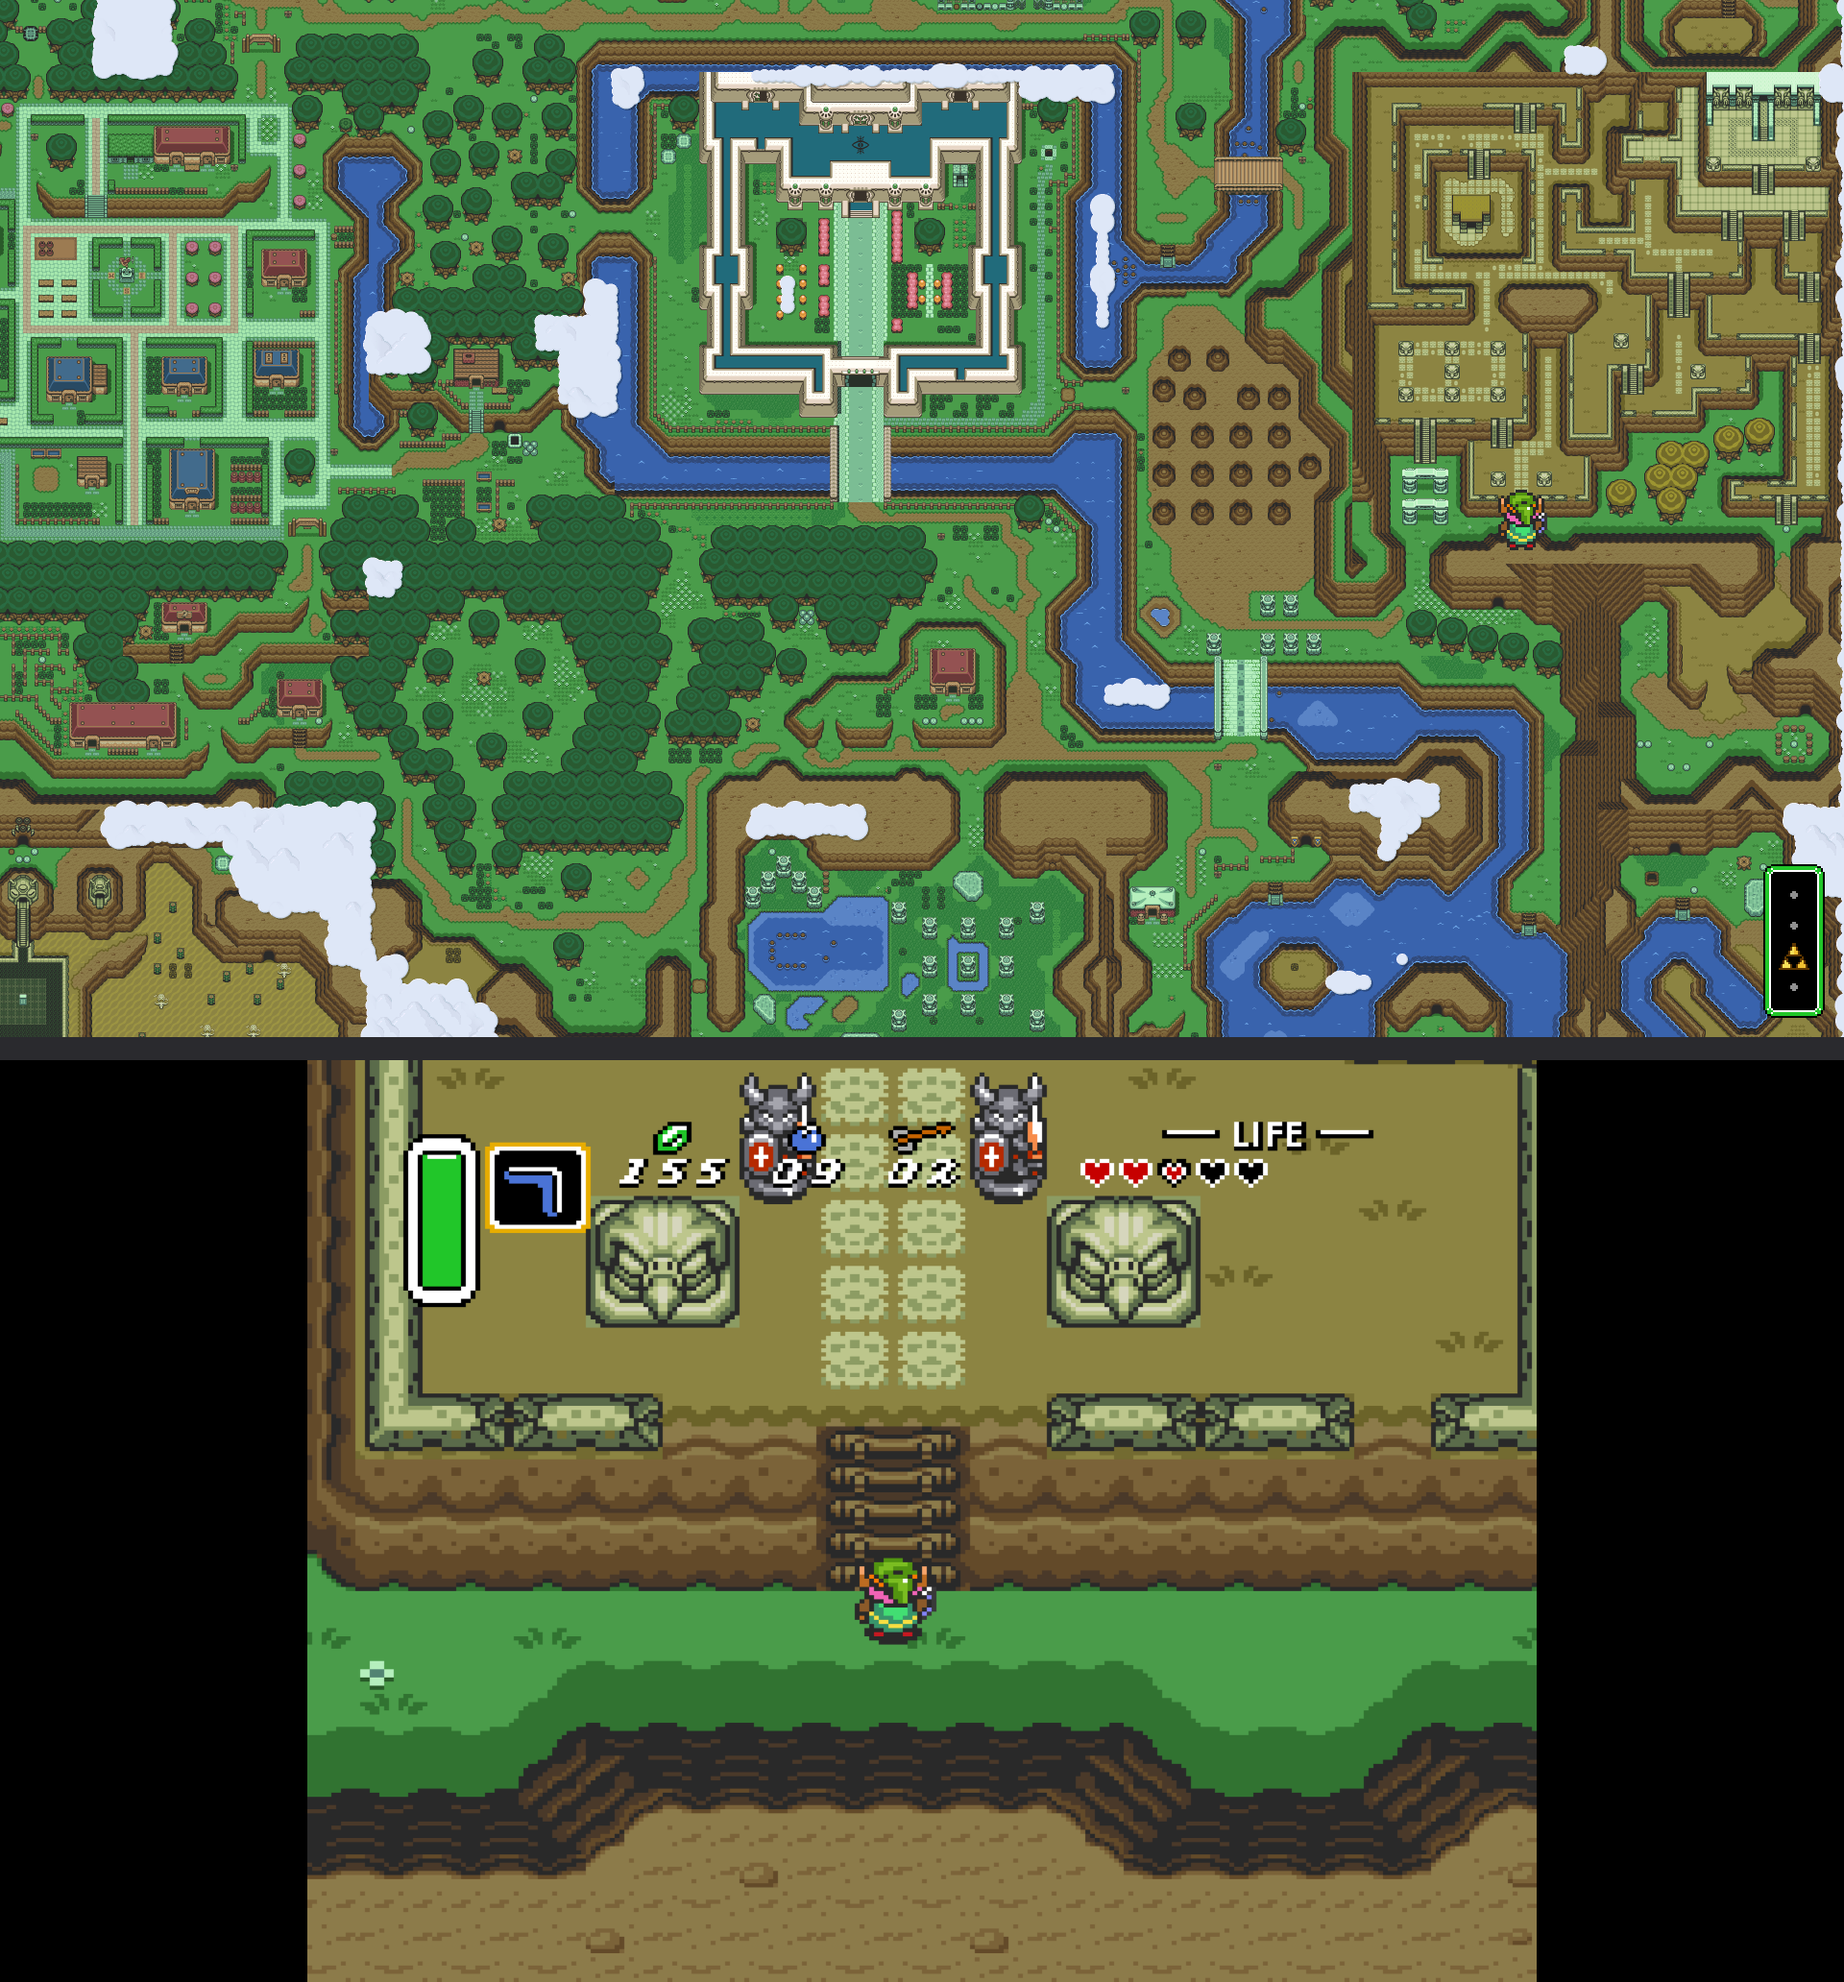
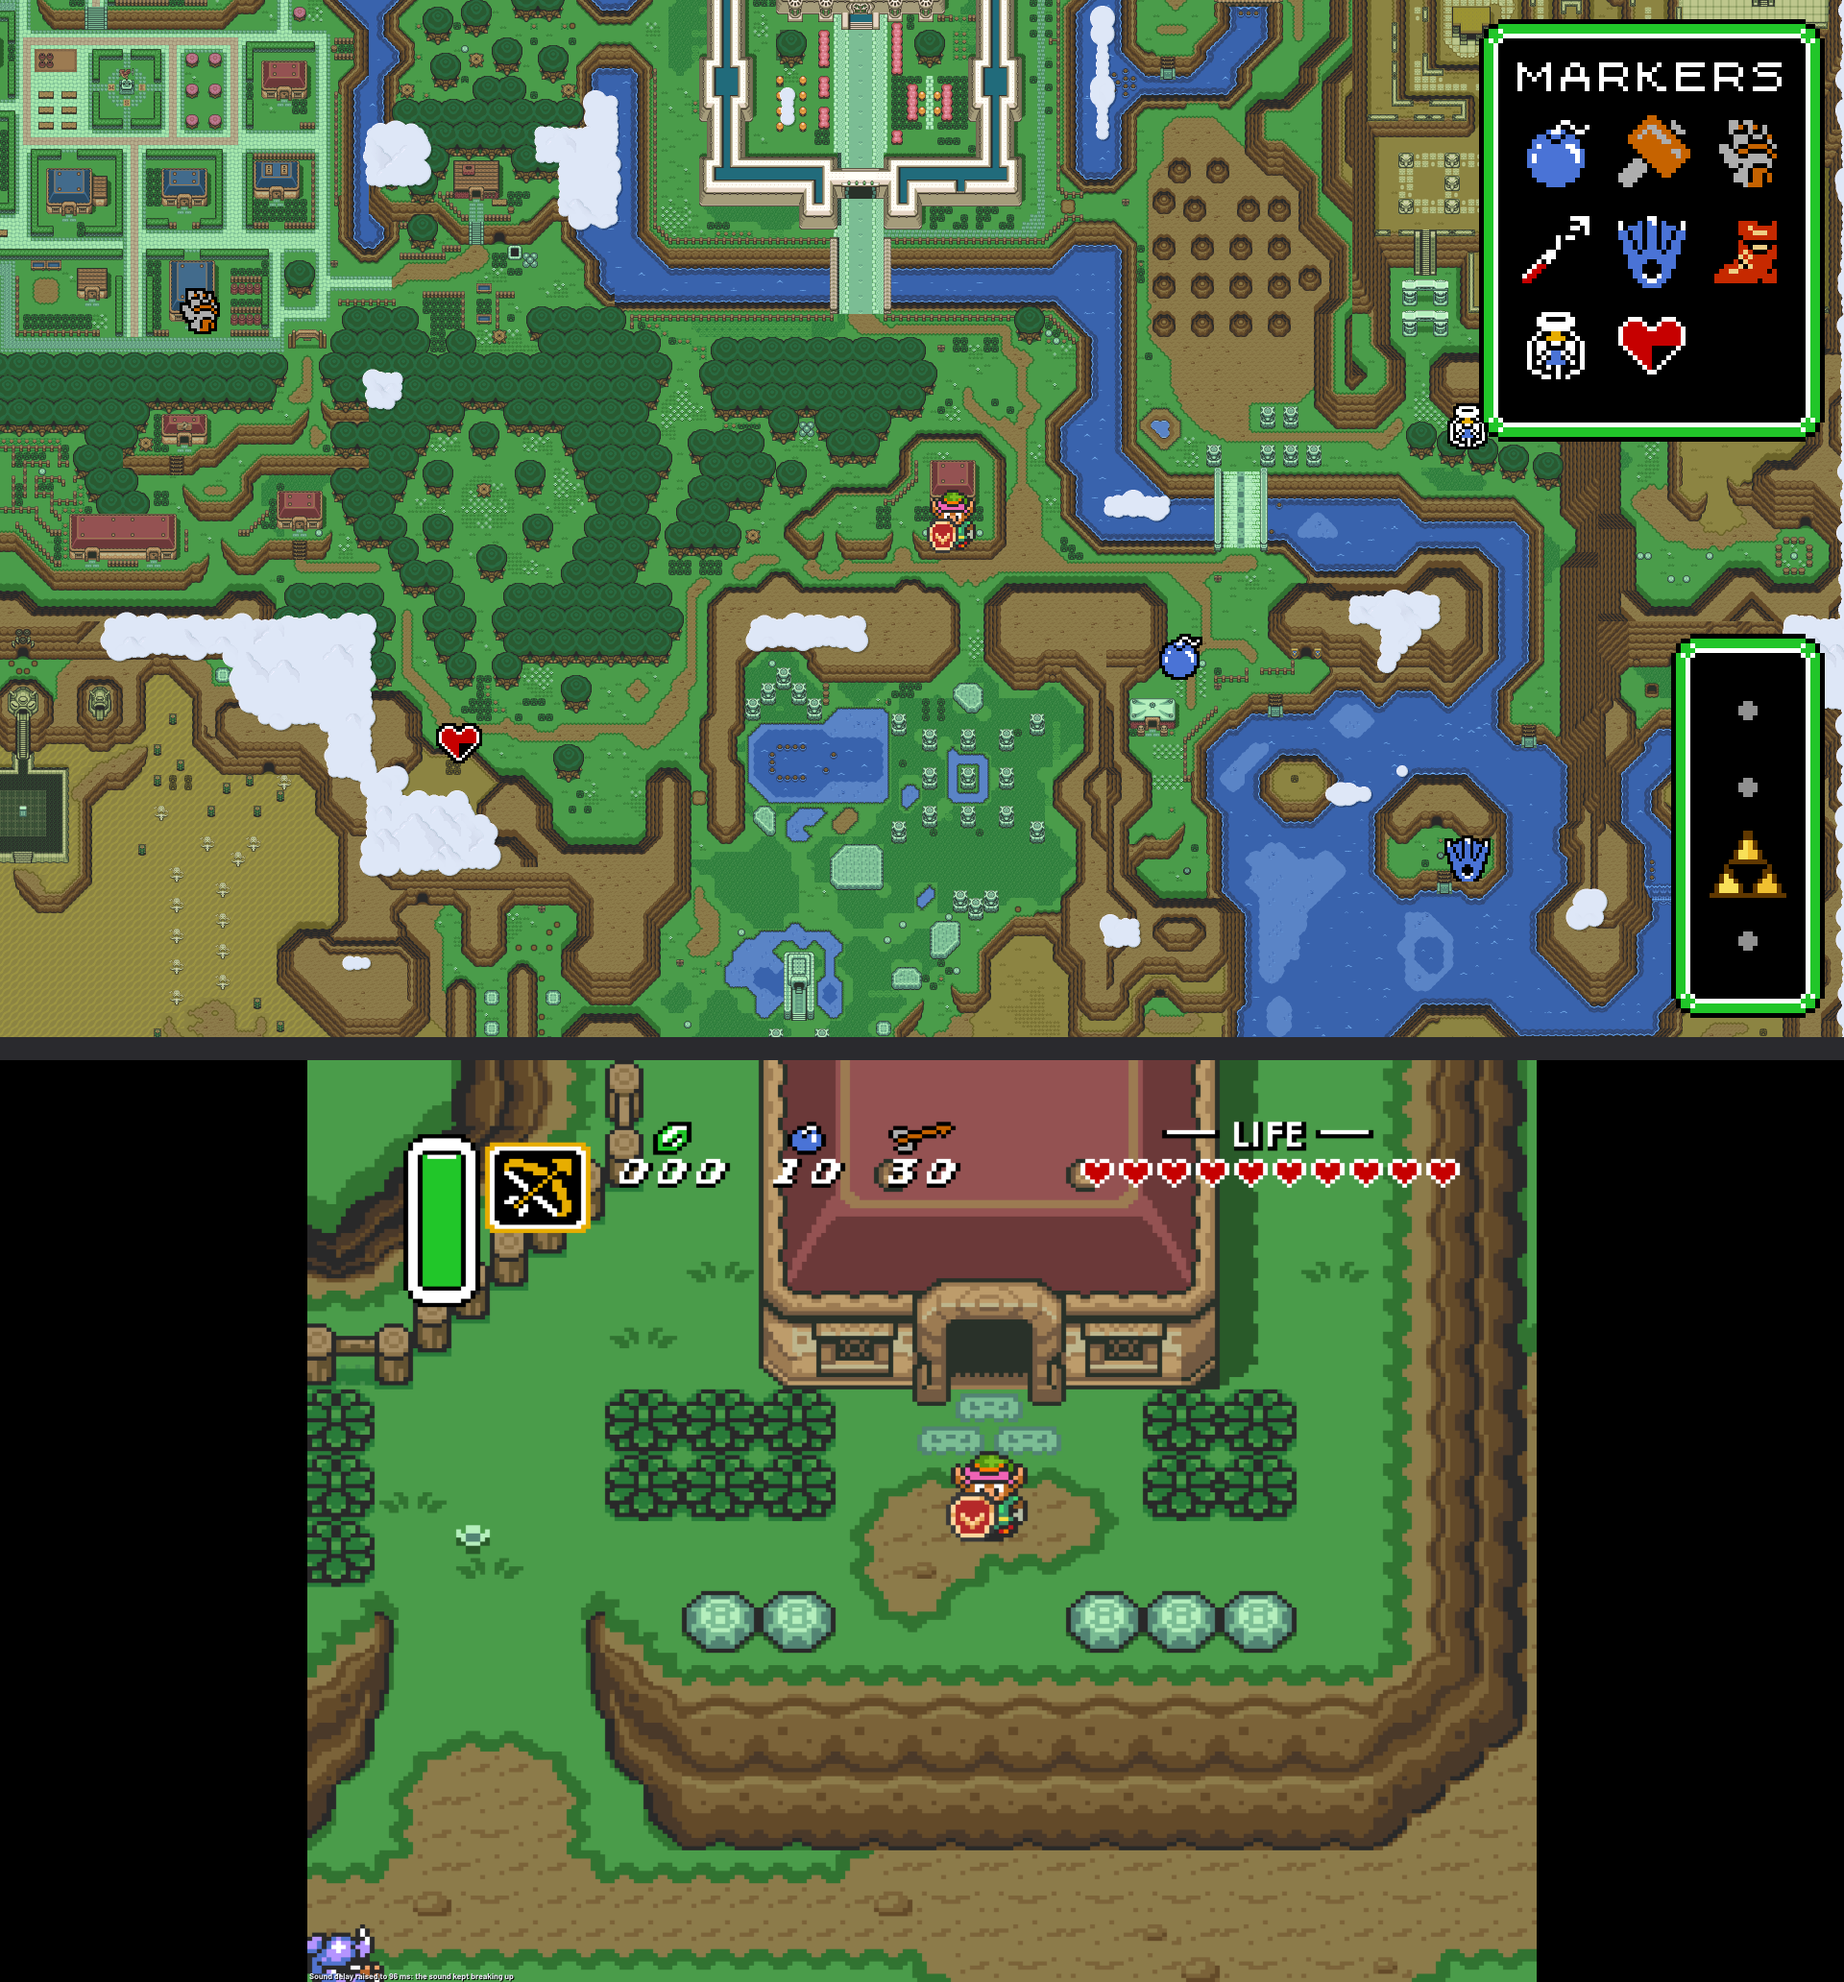
README: the owner's edits, current pictures
No repeated Duo / not-a-DS lines, no blockquote, no Super Metroid
mini-map line, no SNES DS move (there was never a public release),
A Link to the Past's items and markers as two points, and the owner's
wording for Symphony of the Night. New pictures, rendered by the desktop
app: the world map with markers on it (placed for the picture: no save
had any yet) and the MARKERS pane, and the current game list (tiles,
three games) and menu.

diff --git a/README.md b/README.md
@@ -17,9 +17,7 @@ RetroDS plays Super Nintendo and PlayStation games on dual-screen Android handhe
 
 You play with the buttons. The second screen is for looking: drag and zoom the map, tap an item to switch to it.
 
-It's built for and tested on the **Retroid Pocket Duo**. Other dual-screen Android handhelds should work but haven't been tried: the game goes on whichever screen fits a 4:3 picture best, and the other gets the second screen.
-
-> RetroDS doesn't play Nintendo DS games.
+Built for and tested on the **Retroid Pocket Duo**; other dual-screen Android handhelds should work but haven't been tried.
 
 ## Games with a second screen
 
@@ -34,20 +32,20 @@ Each supported game gets a second screen of its own, worked out from how that ga
 
 - The area map as the pause screen draws it, explored rooms and all, drawn by RetroDS from the cartridge and the game's memory. Drag it and fling it; it scrolls at the screen's refresh rate.
 - Tap SAMUS for the equipment page, and tap a beam, suit or item there to switch it on or off without pausing.
-- The mini-map on the game screen is covered while the full map is on the other screen.
 
 [Rules](docs/games/super-metroid.md) · USA / Japan release
 
 ### The Legend of Zelda: A Link to the Past
 
 <p align="center">
-  <img src="docs/media/alttp-world-map.webp" width="30%" alt="A Link to the Past: the Light World map built from what Link has seen, clouds over the rest">
+  <img src="docs/media/alttp-world-map.webp" width="30%" alt="A Link to the Past: the Light World map built from what Link has seen, clouds over the rest, the player's markers on it and the MARKERS pane">
   <img src="docs/media/alttp-items.webp" width="30%" alt="A Link to the Past: the items screen over the map, in the Ice Palace">
   <img src="docs/media/alttp-dungeon-map.webp" width="30%" alt="A Link to the Past: a dungeon's map on the top screen">
 </p>
 
 - The world map, built from the ground the game has actually shown you, with the world map's own clouds over what you haven't seen, Link walking on it, and the game's markers for where to go next. Pinch or tap to zoom.
-- The items screen slides up over the map (X): tap an item to give it to Y. Drop your own markers on the map to remember a secret for later.
+- The items screen slides up over the map (X): tap an item to give it to Y.
+- Drop your own markers on the map to remember a secret for later.
 - In dungeons, the dungeon's own map, floor by floor.
 
 [Rules](docs/games/a-link-to-the-past.md) · USA release
@@ -59,9 +57,13 @@ Each supported game gets a second screen of its own, worked out from how that ga
   <img src="docs/media/sotn-menu.webp" width="45%" alt="Symphony of the Night: the game's own menu on the top screen, widened; the logo on the bottom screen">
 </p>
 
-- The castle map exactly as the game's map screen draws it, read from the game's video memory, in its status-screen window (your window colour from the game's System menu), with the game's own cursor on Alucard's room, the rooms explored and the percentage. Tap or pinch to zoom in.
-- Press Start, or swipe across the second screen, and the game pauses and its own menu moves to the second screen, widened to fill it, while the game screen shows the logo. Play the menu with the pad as usual; Start or a swipe back carries on.
-- L2 and R2 go to the game (rewind and fast forward are the Super Nintendo's).
+- The castle map exactly as the game's map screen draws it, read from the game's video memory. Rooms explored and the percentage of the castle are displayed.
+- Windows get their colour from the game's System menu.
+- Tap or pinch to zoom in on the map.
+
+Press Start, or swipe across the second screen, and the game pauses and its own menu moves to the second screen. It is widened to fill modern devices' screens. The game screen shows the game's logo. Play the menu with the pad as usual; Start, triangle or a swipe back returns to the map.
+
+L2 and R2 as rewind and fast forward are disabled in Symphony of the Night.
 
 [Rules](docs/games/symphony-of-the-night.md) · USA release (SLUS-00067)
 
@@ -97,13 +99,11 @@ Any other Super Nintendo or PlayStation game plays on one screen, with its title
 3. Open RetroDS, pick a game. Tap the game screen or press HOME for RetroDS's menu: save and load states (with Undo), screens and scaling (4:3 or Pixel Perfect), shaders, controls, and the rest.
 
 <p align="center">
-  <img src="docs/media/game-list.webp" width="45%" alt="RetroDS's game list: the last game's picture on the top screen, the games on the bottom">
-  <img src="docs/media/pause-menu.webp" width="45%" alt="RetroDS's menu on the game screen: Resume, Save State, Load State, Undo, Close RetroDS">
+  <img src="docs/media/game-list.webp" width="45%" alt="RetroDS's game list: the last game's picture on the top screen, the games' logos on the bottom">
+  <img src="docs/media/pause-menu.webp" width="45%" alt="RetroDS's menu on the game screen: Resume, Restart Game, Save State, Load State, Undo, Close RetroDS; the game paused on the other screen">
 </p>
 
 Also there: rewind (L2) and fast forward (R2) on the Super Nintendo, patches applied as the game loads (IPS, UPS, BPS, xdelta), cheats, RetroAchievements (casual mode), and ten languages.
-
-**Coming from SNES DS?** RetroDS is a new app beside it. On its first start it copies your `SNES DS/` states, settings, cheats, logos and overlays into `RetroDS/`, leaving the originals; keep SNES DS until you've seen your states in RetroDS.
 
 ## How it works
 
